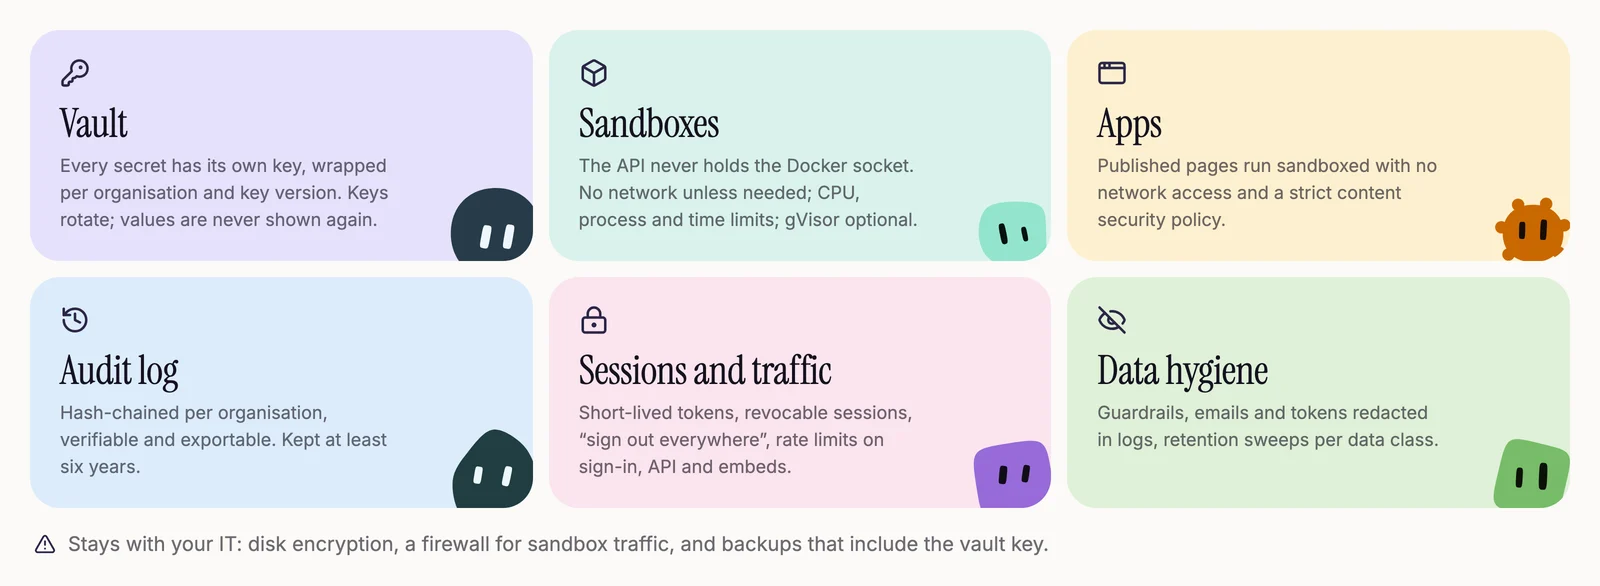
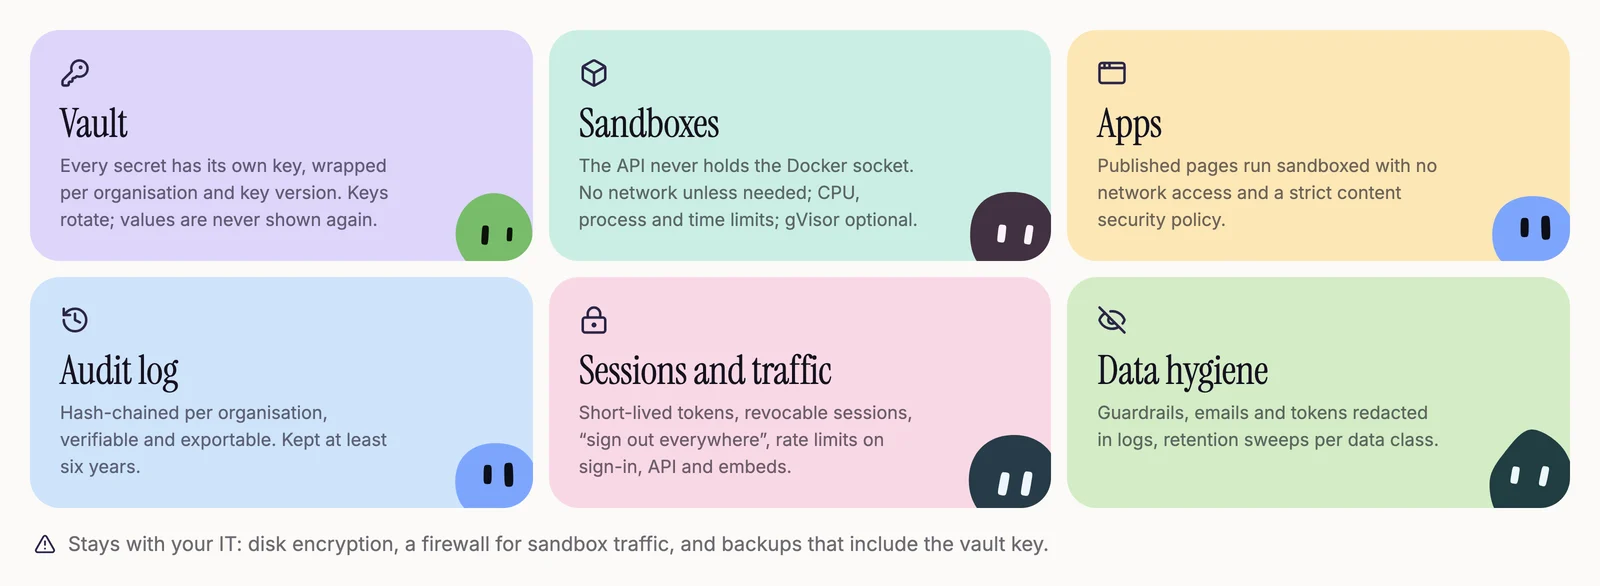
docs(readme): pick blobs that stand out from their tile, deepen the pastels

diff --git a/docs/assets/readme/figures.html b/docs/assets/readme/figures.html
@@ -28,14 +28,14 @@
     --faint: rgba(21, 18, 31, 0.08);
     --violet: #2b2547;
     --blob: #bbd1ff;
-    --lav: #e6e1fb;
-    --mint: #d9f2ec;
-    --rose: #fbe4ee;
-    --butter: #fdf0cf;
-    --sage: #dff0d8;
-    --sky: #dcecfb;
-    --peach: #fde3d9;
-    --stone: #efece6;
+    --lav: #ddd5fb;
+    --mint: #cbeee3;
+    --rose: #f9d8e6;
+    --butter: #fce7b6;
+    --sage: #d3ecc6;
+    --sky: #cfe3fb;
+    --peach: #fcd6c5;
+    --stone: #ebe6dc;
   }
   * { box-sizing: border-box; }
   body { margin: 0; background: #d6d6d6; font-family: Inter, system-ui, sans-serif; color: var(--ink); }
@@ -390,6 +390,30 @@
   fill("[data-icon]", A.icons, "icon");
   fill("[data-mark]", A.marks, "mark");
   fill("[data-face]", A.faces, "face");
+  // A character stands out from its tile: each pastel gets only blobs of a
+  // contrasting, saturated colour, taken in turn so neighbours differ. A pale
+  // blob on a pale tile of its own hue was a smudge.
+  const CAST = {
+    lav: ["agenticos", "pip", "momo"],
+    mint: ["atlas", "momo", "agenticos"],
+    rose: ["momo", "root", "tofu"],
+    butter: ["tide", "agenticos", "momo"],
+    sky: ["tofu", "agenticos", "pip"],
+    sage: ["pip", "tofu", "momo"],
+    peach: ["atlas", "root"],
+    stone: ["root", "agenticos", "atlas"],
+    dark: ["agenticos"],
+  };
+  const turn = {};
+  for (const cast of document.querySelectorAll(".tile > .cast, .core > .cast, .hubcore > .cast")) {
+    const host = cast.parentElement;
+    const tint = host.matches(".core, .hubcore")
+      ? "dark"
+      : Object.keys(CAST).find((name) => host.classList.contains(name));
+    if (!tint) continue;
+    const options = CAST[tint];
+    cast.dataset.bare = options[(turn[tint] = (turn[tint] ?? -1) + 1) % options.length];
+  }
   fill("[data-bare]", A.bare, "bare");
   for (const el of document.querySelectorAll("img[data-logo]")) el.src = A.logo;
   // The numbered outlines over each product screen, from capture.mjs.
